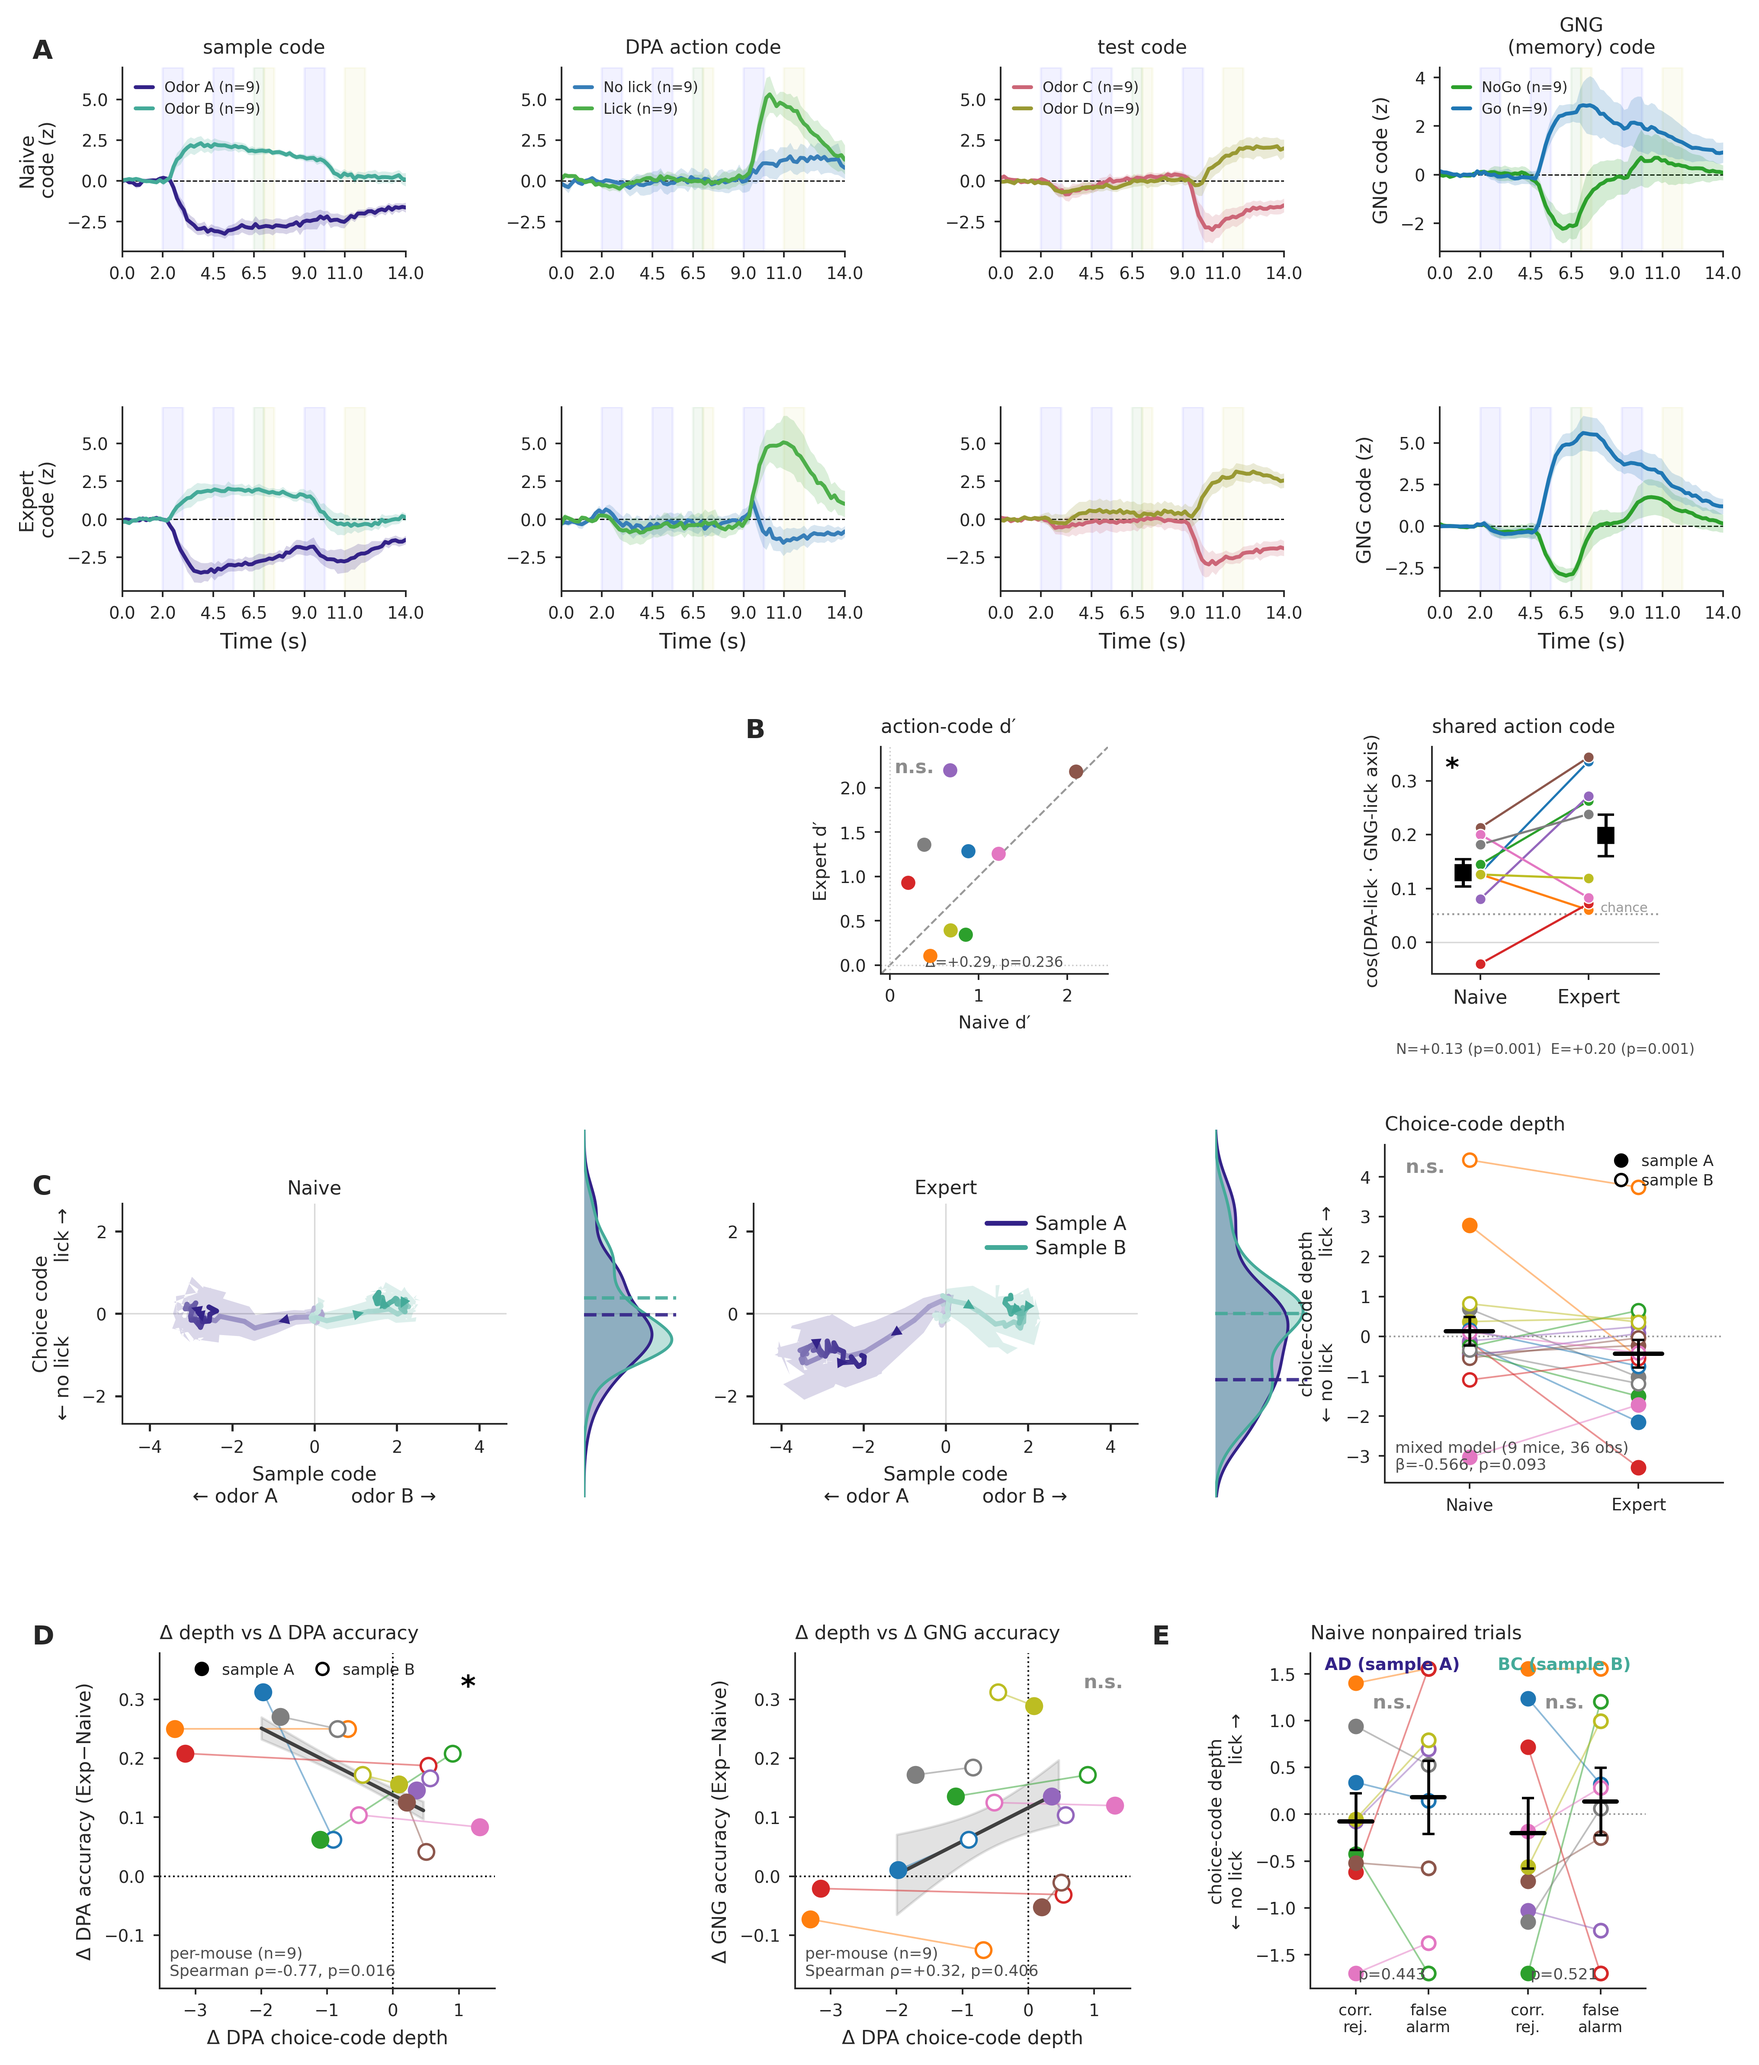
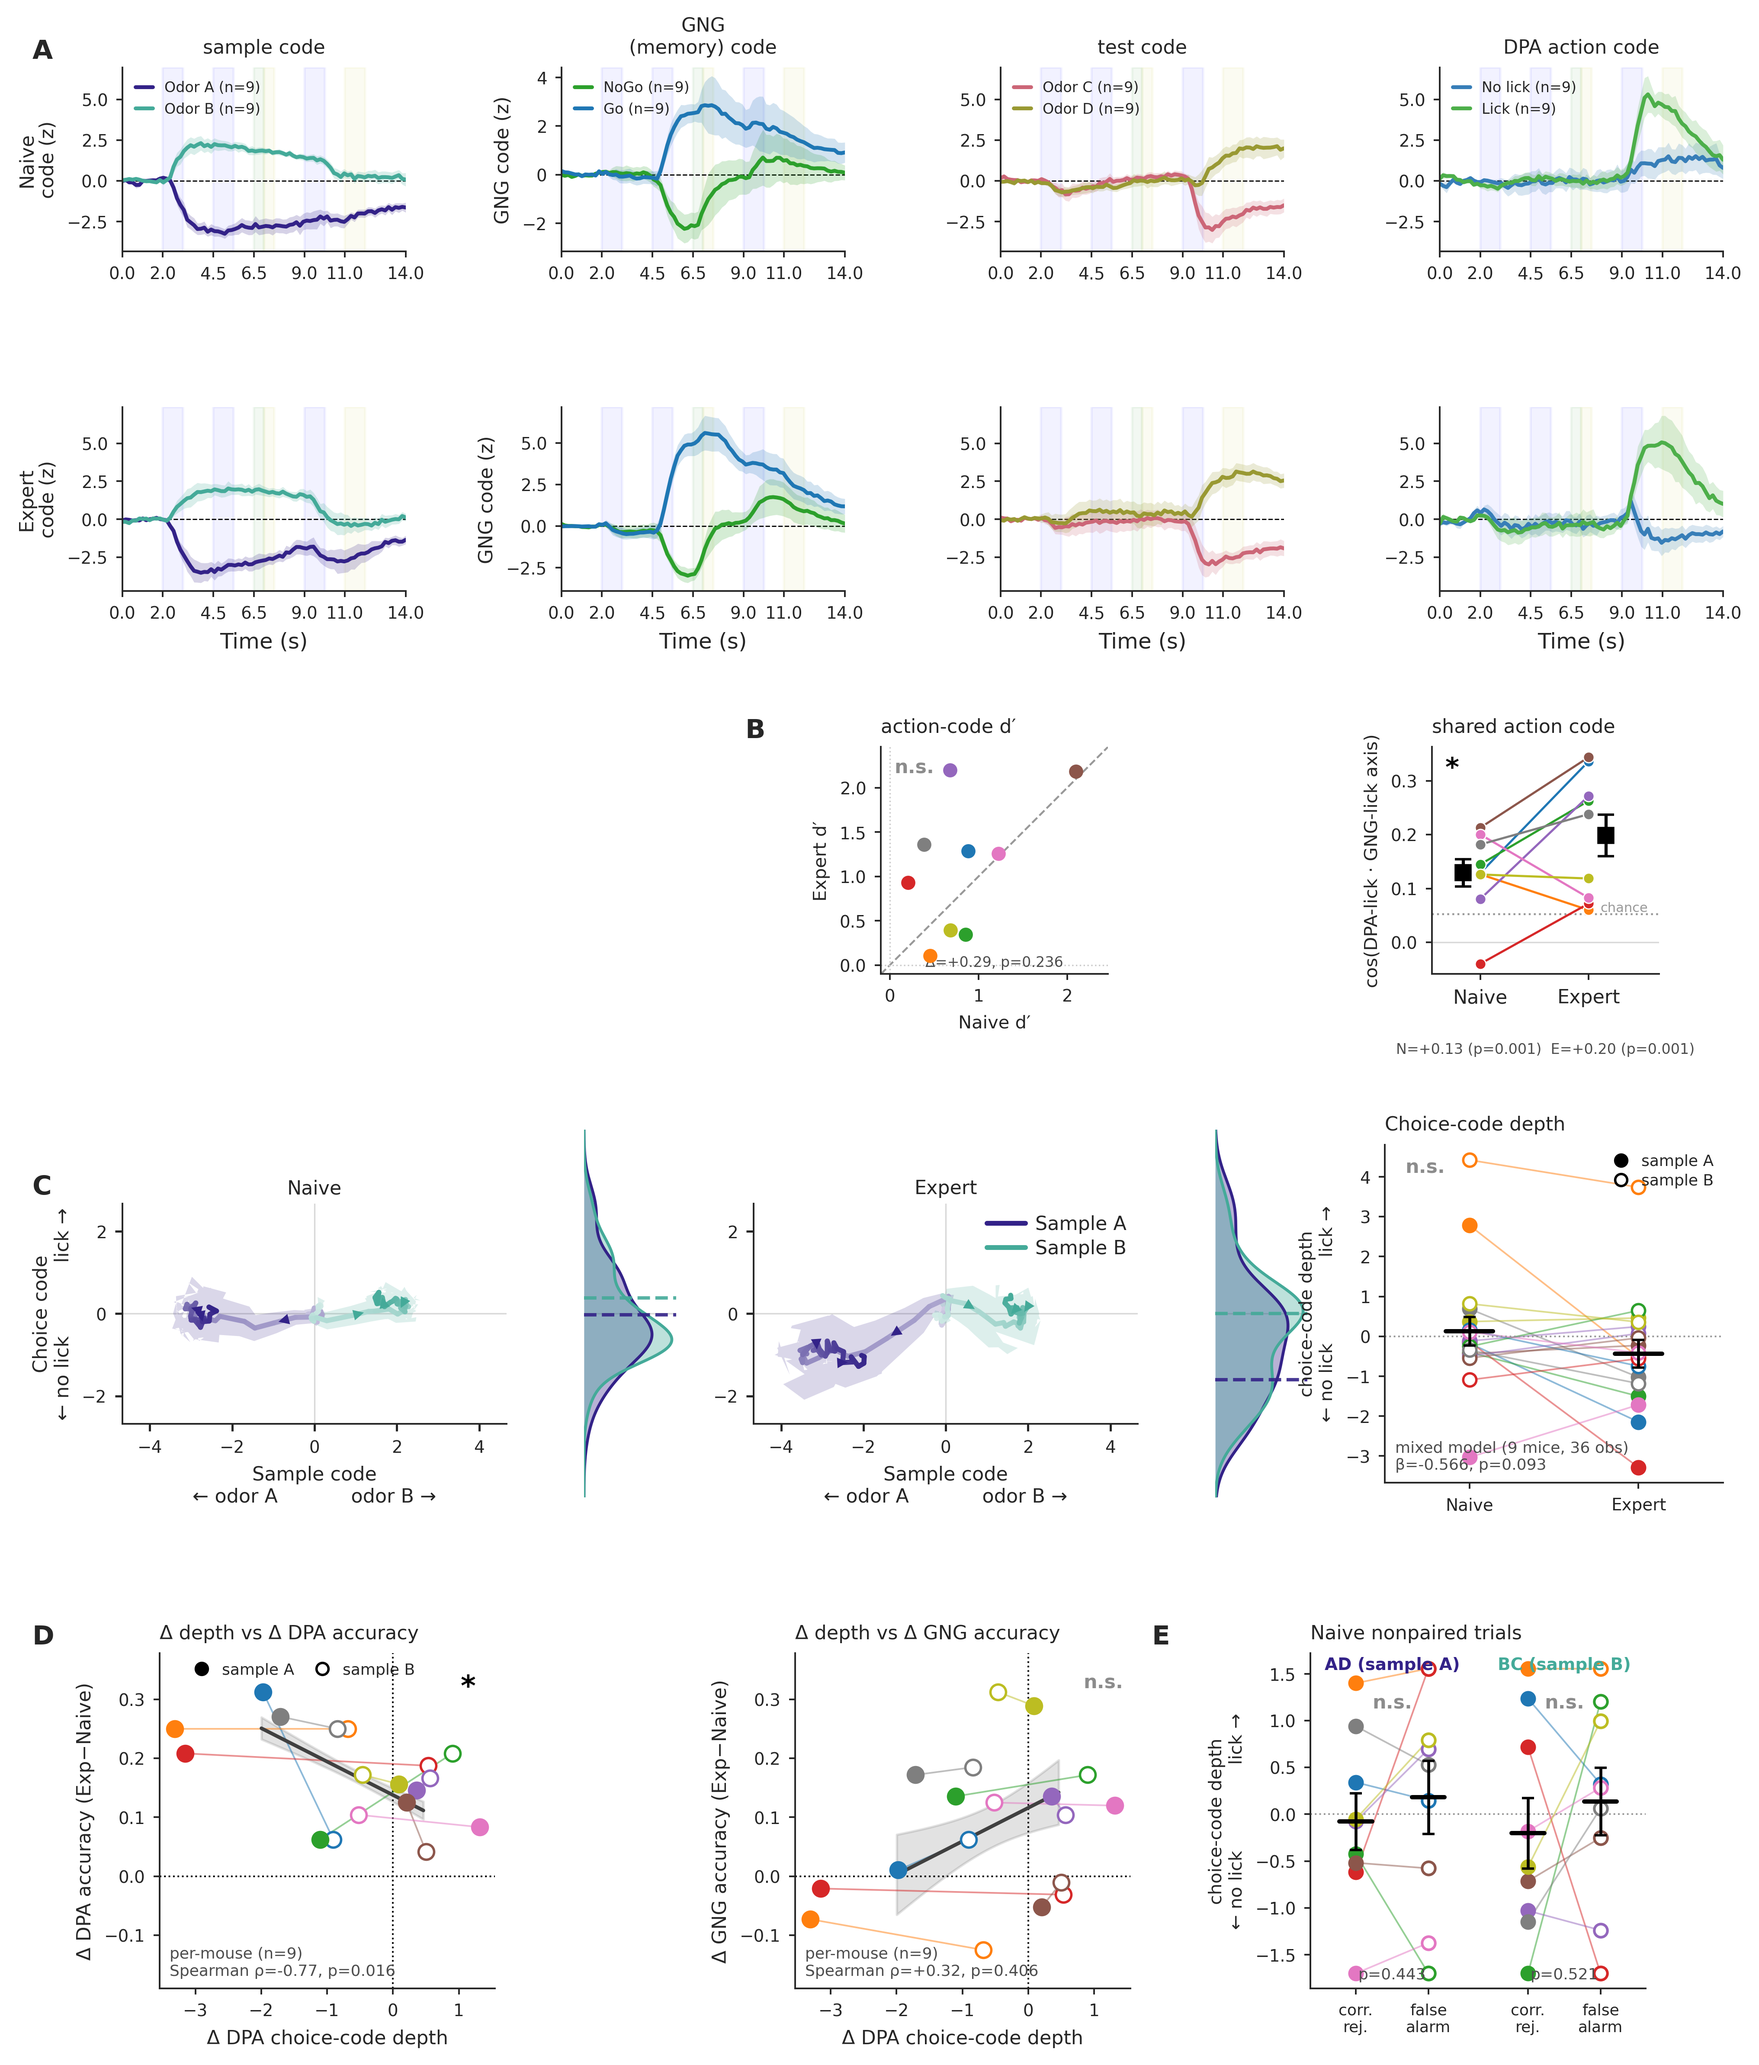
overlaps main figure: reorder panel A columns to sample / GNG / test / action
_A_SPECS = [sample, GNG, test, DPA-action] (was sample, action, test, GNG),
matching the Go/NoGo supplement. GNG is now column 1 with its own y-scale
(sharey `c in (2,3)`: test+action share the sample scale); GNG y-label moved
to c==1. Default and --cv10 PNGs regenerated; overview/main_figure docs updated.

diff --git a/overlaps/fig_overlaps_main_native.py b/overlaps/fig_overlaps_main_native.py
@@ -534,14 +534,14 @@ def panel_letter(ax, L, x=0.008, dy=0.014):
 axA = np.empty((2, 4), dtype=object)
 _rowsub = [gs[0, :].subgridspec(1, 4, wspace=0.55), gs[1, :].subgridspec(1, 4, wspace=0.55)]
 for c in range(4):
-    _shy0 = axA[0, 0] if (0 < c < 3) else None                         # GNG (c==3) not row-shared
+    _shy0 = axA[0, 0] if c in (2, 3) else None                         # GNG (c==1) own scale; test/action share sample
     axA[0, c] = fig.add_subplot(_rowsub[0][0, c], sharey=_shy0)
-    _shy1 = axA[1, 0] if (0 < c < 3) else None
+    _shy1 = axA[1, 0] if c in (2, 3) else None
     axA[1, c] = fig.add_subplot(_rowsub[1][0, c], sharex=axA[0, c], sharey=_shy1)
-_A_SPECS = VARS_A + [VAR_GNG]                                          # sample, lick(action), test, GNG
+_A_SPECS = [VARS_A[0], VAR_GNG, VARS_A[2], VARS_A[1]]                  # sample, GNG, test, lick(action)
 for ri, STG in enumerate(STAGES):
     for c, spec in enumerate(_A_SPECS):
-        ylab = (f'{STG}\ncode (z)' if c == 0 else ('GNG code (z)' if c == 3 else ''))
+        ylab = (f'{STG}\ncode (z)' if c == 0 else ('GNG code (z)' if c == 1 else ''))
         _draw_trace_col(axA[ri, c], spec, STG, ylab, show_title=(ri == 0), show_xlabel=(ri == 1))
 
 # ══════════════════════════════════════════════════════════════════════════════

diff --git a/docs/overlaps/overview.md b/docs/overlaps/overview.md
@@ -153,7 +153,7 @@ All n=9 mice → treat every p near 0.05 as suggestive; several quantitative hoo
   ignore its Expert BC star, a pseudoreplication artifact from ~1-2 mice with many deep FA trials).
 - **Native main figure — CURRENT layout (`fig_overlaps_main_native.py`, 5-row A–E, 2026-07-18).** The
   publication figure (`figures/overlaps/main/{png,svg}/fig_overlaps_main_ab_dpaact[_testwin].png`; `--eqnorm`
-  → `main/eqnorm/`). **A** traces (sample / DPA-action-lick / test / GNG-memory), **B** two compact panels
+  → `main/eqnorm/`). **A** traces (sample / GNG-memory / test / DPA-action-lick), **B** two compact panels
   right of A (action-code d′ stable + shared-action cosine ★), **C** the no-lick push (now **Sample A vs B**,
   not the 4 pairs) + KDE + depth paired plot, **D** Δdepth↔Δacc coupling, **E** FA/CR (winsorised). The lick
   axis = DPA choice/lick decoder @ the DPA lick moment (bins **57–63**), on target=='choice' rows; `--testwin`

diff --git a/docs/overlaps/main_figure.md b/docs/overlaps/main_figure.md
@@ -4,7 +4,7 @@
 > pre-rendered strips). The hypothesis / scientific arc below still applies, but the COMPOSITION,
 > NORMALISATION and per-panel STATS are all superseded — do not trust the specific numbers here.**
 > The **current publication figure is `fig_overlaps_main_native.py`**, natively composed. As of
-> 2026-07-18 it is **5 panels A–E**: A traces (sample / DPA-action-lick / test / GNG-memory), B
+> 2026-07-18 it is **5 panels A–E**: A traces (sample / GNG-memory / test / DPA-action-lick), B
 > action-code d′ + shared-action cosine, C the no-lick push (**Sample A vs B**), D Δdepth↔Δaccuracy,
 > E FA/CR. It uses **ONE uniform normalisation everywhere = class-signed pooled evoked-std** (`--eqnorm`
 > for the all-trials-std variant), the DPA **action axis** (choice decoder @ bins 57–63; `--testwin` =
